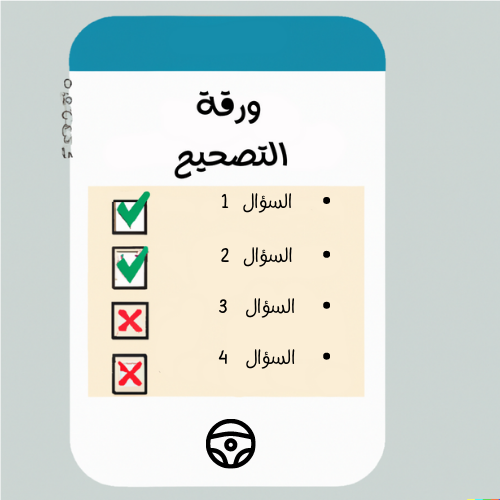
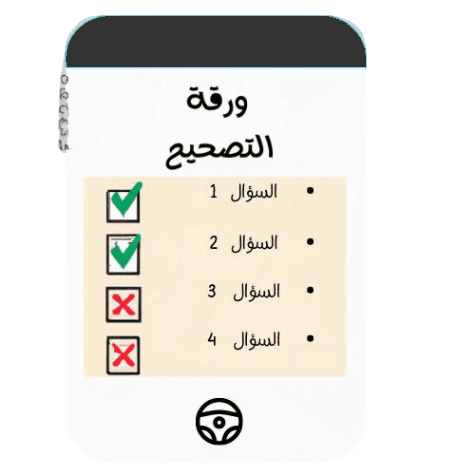
Adding the tyle of the help Layout

diff --git a/components/Help.jsx b/components/Help.jsx
@@ -47,15 +47,15 @@ const Help = ({navigation}) => {
           </TouchableOpacity>
       </View>
       <View style={styles.helpContainer}>
-        <Text>بسم الله الرحمن الرحيم</Text>
-        <Text>يمثل كل صف في الجدول سؤالًا أو مهمة.</Text>
-        <Text>يحتوي كل سؤال على حقل إدخال حيث يمكنك إدخال إجابتك.</Text>
-        <Text>بعد إدخال إجابتك ، ستحتاج إلى التحقق منها.</Text>
-        <Text>بمجرد النقر على  زر الخطاء او الصحيح ، ستصبح حقول الإدخال غير قابلة للتعديل.</Text>
-        <Text>استمر في إدخال الإجابات  لكل صف في الجدول</Text>
-        <Text>بعد التحقق من الإجابات يمكنك الظغط على زر النتيجة لترى الحاصل النهائي</Text>
-        <Text>بعد الإنهاء يمكنك الضغط على زر الإعادة لبدء سلسلة جديدة</Text>
-        <Text>وفقنا الله وإياكم لما يحبه ويرضاه</Text>
+        <Text style={styles.headingText}>بسم الله الرحمن الرحيم</Text>
+        <Text style={styles.subText}>يمثل كل صف في الجدول سؤالًا .</Text>
+        <Text style={styles.subText}>يحتوي كل سؤال على حقل إدخال حيث يمكنك إدخال إجابتك.</Text>
+        <Text style={styles.subText}>بعد إدخال إجابتك ، ستحتاج إلى التحقق منها.</Text>
+        <Text style={styles.subText}>بمجرد النقر على  زر الخطاء او الصحيح ، ستصبح حقول الإدخال غير قابلة للتعديل.</Text>
+        <Text style={styles.subText}>استمر في إدخال الإجابات  لكل صف في الجدول</Text>
+        <Text style={styles.subText}>بعد التحقق من الإجابات يمكنك الظغط على زر النتيجة لترى الحاصل النهائي</Text>
+        <Text style={styles.subText}>بعد الإنهاء يمكنك الضغط على زر الإعادة لبدء سلسلة جديدة</Text>
+        <Text style={styles.footerText}>وفقنا الله وإياكم لما يحبه ويرضاه</Text>
       </View>
     </View>
   )

diff --git a/assets/styles/HelpStyle.js b/assets/styles/HelpStyle.js
@@ -7,8 +7,32 @@ export default styles = StyleSheet.create({
       height:"94%",
       backgroundColor: '#fff',
       display:'flex',
-      justifyContent:'center',
+      alignItems:'flex-end',
       borderRadius:5,
+      paddingTop:50,
+    },
+    headingText:{
+      marginBottom:30,
+      width:"100%",
+      textAlign:"center",
+      fontFamily:'Tajawal-Medium',
+      fontSize:24,
+      color:colors.success
+    },
+    subText:{
+      marginBottom:35,
+      width:"100%",
+      textAlign:"center",
+      fontFamily:'Tajawal-Medium',
+      fontSize:16,
+      lineHeight:22
+    },
+    footerText:{
+      width:"100%",
+      textAlign:"center",
+      fontFamily:'Tajawal-Medium',
+      fontSize:14,
+      color:colors.success
     },
     loading:{ 
         flex: 1,
